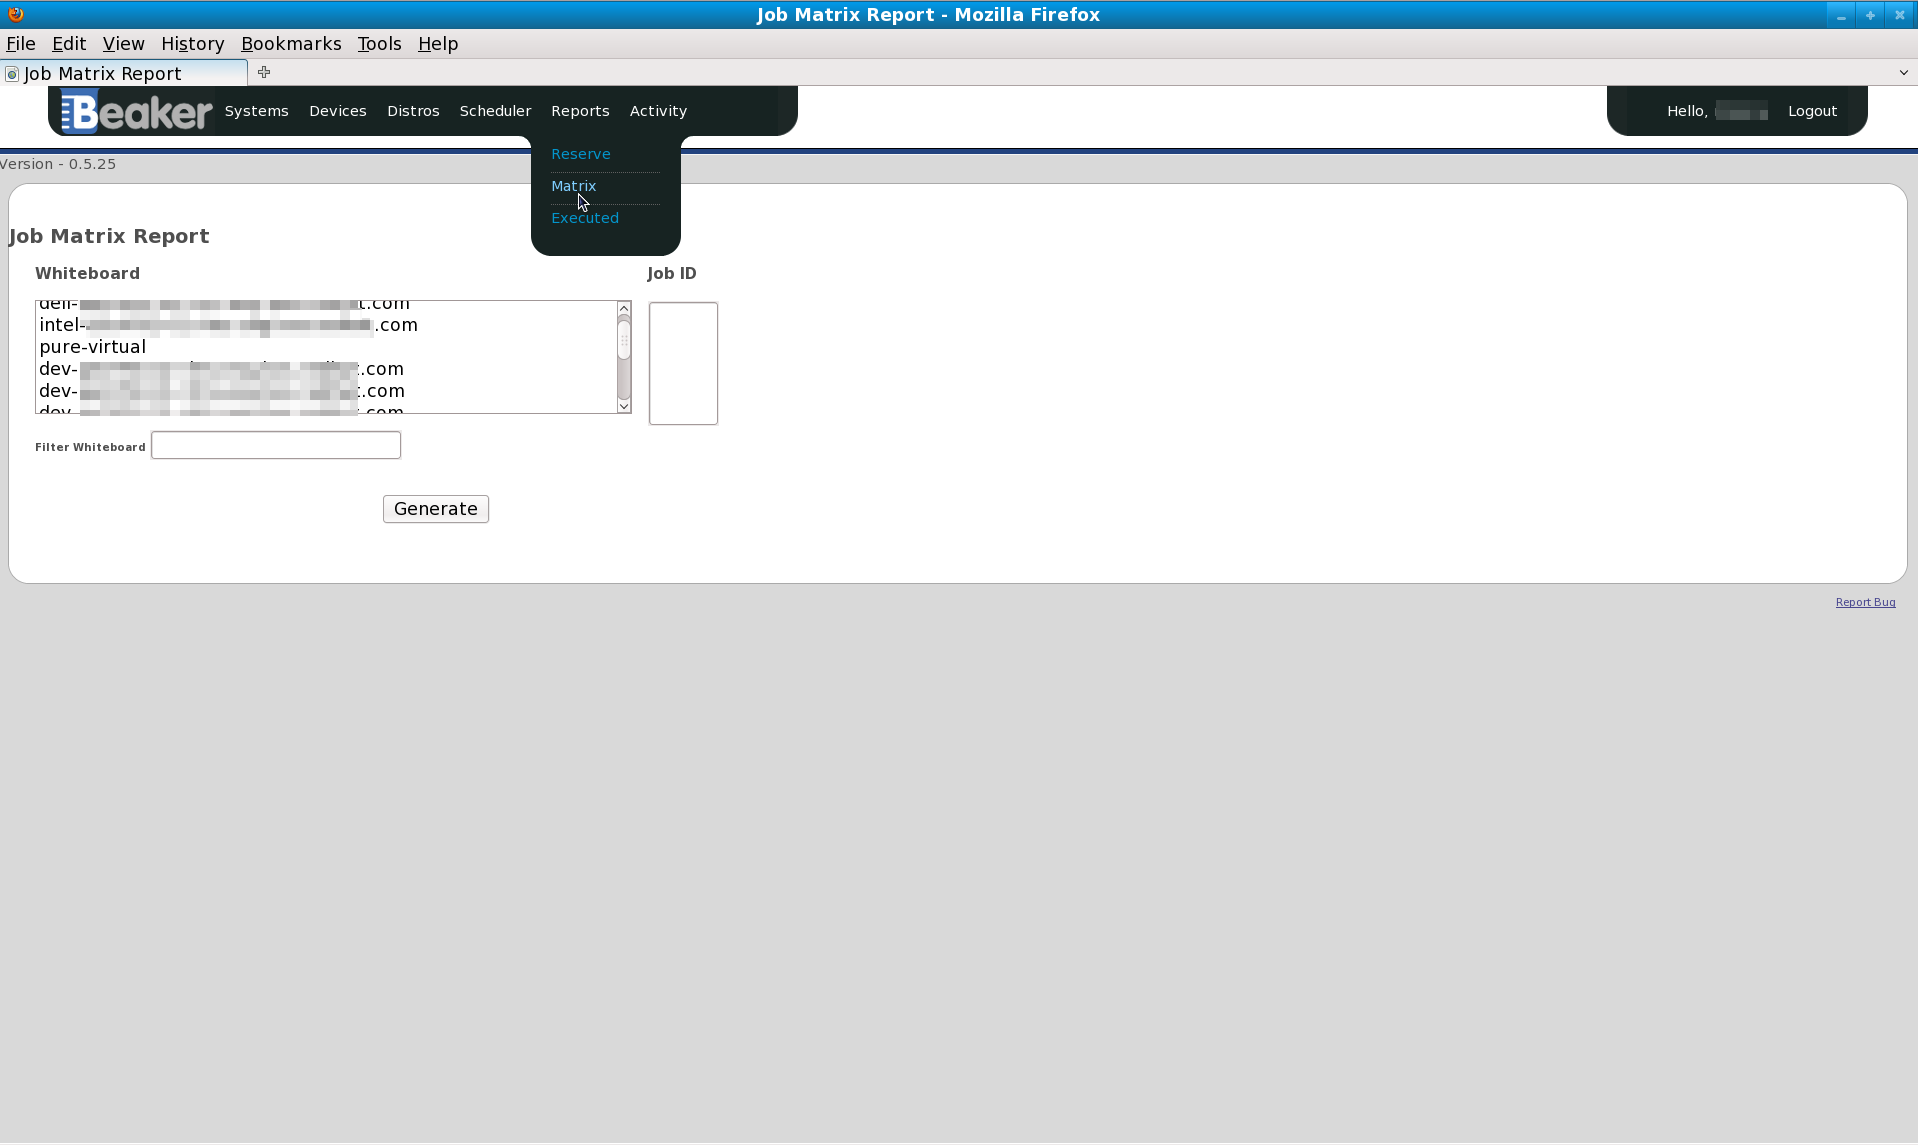
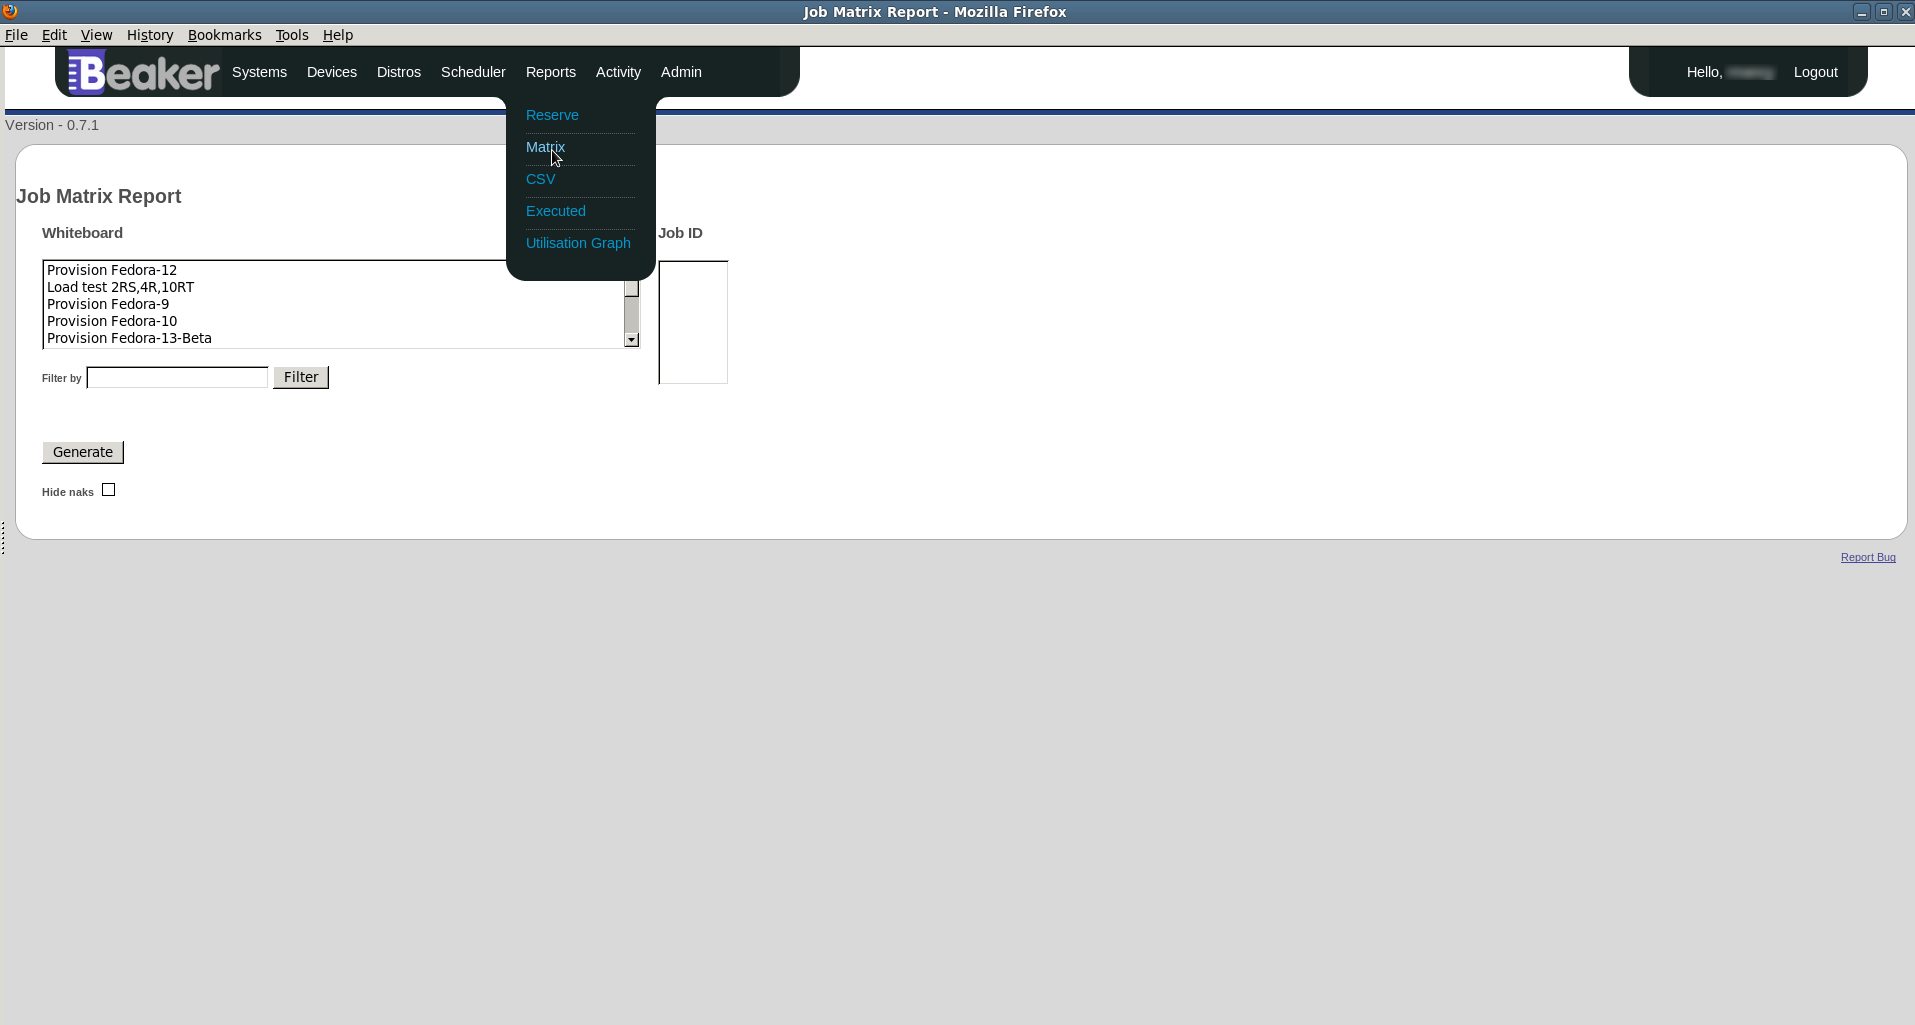
Filter matrix job by multiple whiteboards.
Also replaced the filter texfield blur() trigger with an actual button

Bug:713578

Changed region(s): [[0.0, 0.0, 1.0, 0.562], [0.1849, 0.4371, 0.2465, 0.4683]]

diff --git a/Server/bkr/server/widgets.py b/Server/bkr/server/widgets.py
@@ -234,25 +234,26 @@ class ReserveWorkflow(Form):
         return super(ReserveWorkflow,self).display(value,**params)
 
     def update_params(self,d):
-        super(ReserveWorkflow,self).update_params(d) 
+        super(ReserveWorkflow,self).update_params(d)
         if 'values' in d:
             if d['values']:
-                d['arch_value'] = d['values']['arch'] 
+                d['arch_value'] = d['values']['arch']
                 d['distro_family_value'] = d['values']['distro_family']
                 d['tag_value'] = d['values']['tag']
 
-class MyButton(Widget):
+class MyButton(Button):
     template="bkr.server.templates.my_button"
-    params = ['submit','button_label','name']
-    def __init__(self,name,submit=True,*args,**kw): 
-        self.submit = submit 
+    params = ['type', 'button_label', 'name']
+    def __init__(self, name, type="submit", *args, **kw):
+        super(MyButton,self).__init__(*args, **kw)
+        self.type = type
         self.name = name
         self.button_label = None
 
-    def display(self,value,**params):
+    def display(self,value=None,**params):
         if 'options' in params:
             if 'label' in params['options']:
-                params['button_label'] = params['options']['label']       
+                params['button_label'] = params['options']['label']
             if 'name' in params['options']:
                 params['name'] = params['options']['name']
         return super(MyButton,self).display(value,**params)
@@ -528,15 +529,16 @@ class JobMatrixReport(Form):
     template = 'bkr.server.templates.job_matrix' 
     member_widgets = ['whiteboard','job_ids','generate_button','nack_list']
     params = (['list','whiteboard_filter','whiteboard_options','job_ids_vals',
-        'nacks','comments_field','toggle_nacks_on'])
+        'nacks','comments_field','toggle_nacks_on', 'whiteboard_filter_button'])
     default_validator = validators.NotEmpty() 
     def __init__(self,*args,**kw):
         super(JobMatrixReport,self).__init__(*args, **kw)
         self.class_name = self.__class__.__name__
         self.nack_list = CheckBoxList("Hide naks",validator=self.default_validator)
-        self.whiteboard = SingleSelectField('whiteboard', label='Whiteboard', attrs={'size':5, 'class':'whiteboard'}, validator=self.default_validator)
+        self.whiteboard = MultipleSelectField('whiteboard', label='Whiteboard', attrs={'size':5, 'class':'whiteboard'}, validator=self.default_validator)
         self.job_ids = TextArea('job_ids',label='Job ID', rows=7,cols=7, validator=self.default_validator)
-        self.whiteboard_filter = TextField('whiteboard_filter', label='Filter Whiteboard')
+        self.whiteboard_filter = TextField('whiteboard_filter', label='Filter by')
+        self.whiteboard_filter_button = MyButton(name='do_filter', type='button')
         self.name='remote_form'
         self.action = '.'
 

diff --git a/Server/bkr/server/job_matrix.py b/Server/bkr/server/job_matrix.py
@@ -48,25 +48,29 @@ class JobMatrix:
         self.col_call = 0
         self.max_cols = 0
         self.job_ids = []
-        matrix_options = {} 
+        matrix_options = {}
         if 'whiteboard_filter' in kw:
             filter = kw['whiteboard_filter']
         else:
             filter = None 
 
-        matrix_options['whiteboard_options'] = self.get_whiteboard_options(filter, kw.get('whiteboard', None))
-        if ('job_ids' in kw) or ('whiteboard' in kw): 
+        whiteboard = None
+        if 'whiteboard' in kw: # Let's deal with whiteboard as a list, just easier
+            whiteboard = type(kw['whiteboard']) == type([]) and kw['whiteboard'] or [kw['whiteboard']]
+
+        matrix_options['whiteboard_options'] = self.get_whiteboard_options(filter, selected=whiteboard)
+        if ('job_ids' in kw) or whiteboard: 
             gen_results = self.generate(**kw) 
             matrix_options['grid'] = gen_results['grid']
             matrix_options['list'] = gen_results['data'] 
-            if 'whiteboard' in kw: # Getting results by whiteboard
-                s = select([func.count(model.Job.c.id).label('job_count')], whereclause=model.Job.c.whiteboard == kw['whiteboard'])
+            if whiteboard: # Getting results by whiteboard
+                s = select([func.count(model.Job.c.id).label('job_count')], whereclause=model.Job.c.whiteboard.in_(whiteboard))
                 res = s.execute()
                 for r in res: #Should only loop once
                     count = r.job_count
                     if count > 20:
                         flash(_('Your whiteboard contains %s jobs, only %s will be used' % (count, model.Job.max_by_whiteboard)))
-                jobs = model.Job.by_whiteboard(kw['whiteboard']) 
+                jobs = model.Job.by_whiteboard(whiteboard) 
                 job_ids = [str(j.id) for j in jobs]
                 self.job_ids = job_ids
                 matrix_options['job_ids_vals'] = "\n".join(job_ids)
@@ -98,6 +102,9 @@ class JobMatrix:
         if value is passed in for 'filter' it will perform an SQL 'like' operation 
         against whiteboard
         """
+        if selected is None:
+            selected = []
+
         if filter: 
             where = model.job_table.c.whiteboard.like('%%%s%%' % filter)   
         else:
@@ -110,7 +117,7 @@ class JobMatrix:
         for r in res:
             value = desc =  r[0]
             option_list = [value, desc]
-            if r[0] == selected:
+            if r[0] in selected:
                 option_list.append({'selected' : 'selected' })
             options.append(option_list)
         return options 

diff --git a/IntegrationTests/src/bkr/inttest/server/selenium/test_job_matrix.py b/IntegrationTests/src/bkr/inttest/server/selenium/test_job_matrix.py
@@ -27,6 +27,7 @@ class TestJobMatrix(SeleniumTestCase):
     def setUp(self):
         self.job_whiteboard = u'DanC says hi %d' % int(time.time() * 1000)
         self.recipe_whiteboard = u'breakage lol \'#&^!<'
+        self.job_whiteboard_2 = u'rmancy says bye %d' % int(time.time() * 1000)
         self.passed_job = data_setup.create_completed_job(
                 whiteboard=self.job_whiteboard, result=u'Pass',
                 recipe_whiteboard=self.recipe_whiteboard,
@@ -45,6 +46,15 @@ class TestJobMatrix(SeleniumTestCase):
 
     def tearDown(self):
         self.selenium.stop()
+
+    def test_filter_button(self):
+        sel = self.selenium
+        sel.open('matrix')
+        sel.wait_for_page_to_load('30000')
+        sel.type("remote_form_whiteboard_filter", self.job_whiteboard[:int(len(self.job_whiteboard) /2)])
+        sel.click("remote_form_do_filter")
+        self.wait_and_try(lambda: self.assert_(self.job_whiteboard in sel.get_text('//select[@id="remote_form_whiteboard"]')))
+        
 
     def test_generate_by_whiteboard(self):
         sel = self.selenium
@@ -66,6 +76,21 @@ class TestJobMatrix(SeleniumTestCase):
         sel.wait_for_page_to_load('30000')
         body_2 = sel.get_text('//body')
         self.assert_('Pass: 2' in body_2)
+
+        #Try with multiple whiteboards
+        another_new_job = data_setup.create_completed_job(
+            whiteboard=self.job_whiteboard_2, result=u'Pass',
+            recipe_whiteboard=self.recipe_whiteboard,
+            distro=data_setup.create_distro(arch=u'i386'))
+        session.flush()
+        sel.open('matrix')
+        sel.wait_for_page_to_load('30000')
+        sel.add_selection("whiteboard", "label=%s" % self.job_whiteboard)
+        sel.add_selection("whiteboard", "label=%s" % self.job_whiteboard_2)
+        sel.click('//input[@value="Generate"]')
+        sel.wait_for_page_to_load('30000')
+        body = sel.get_text('//body')
+        self.assert_('Pass: 3' in body)
 
     def test_it(self):
         sel = self.selenium

diff --git a/Server/bkr/server/model.py b/Server/bkr/server/model.py
@@ -3938,8 +3938,11 @@ class Job(TaskBase):
 
     @classmethod
     def by_whiteboard(cls,desc):
-        res = Job.query().filter_by(whiteboard = desc).limit(cls.max_by_whiteboard)
-        return res
+        if type(desc) is list:
+            res = Job.query().filter(Job.whiteboard.in_(desc))
+        else:
+            res = Job.query().filter_by(whiteboard=desc)
+        return res.limit(cls.max_by_whiteboard)
 
     @classmethod
     def provision_system_job(cls, distro_id, **kw):
